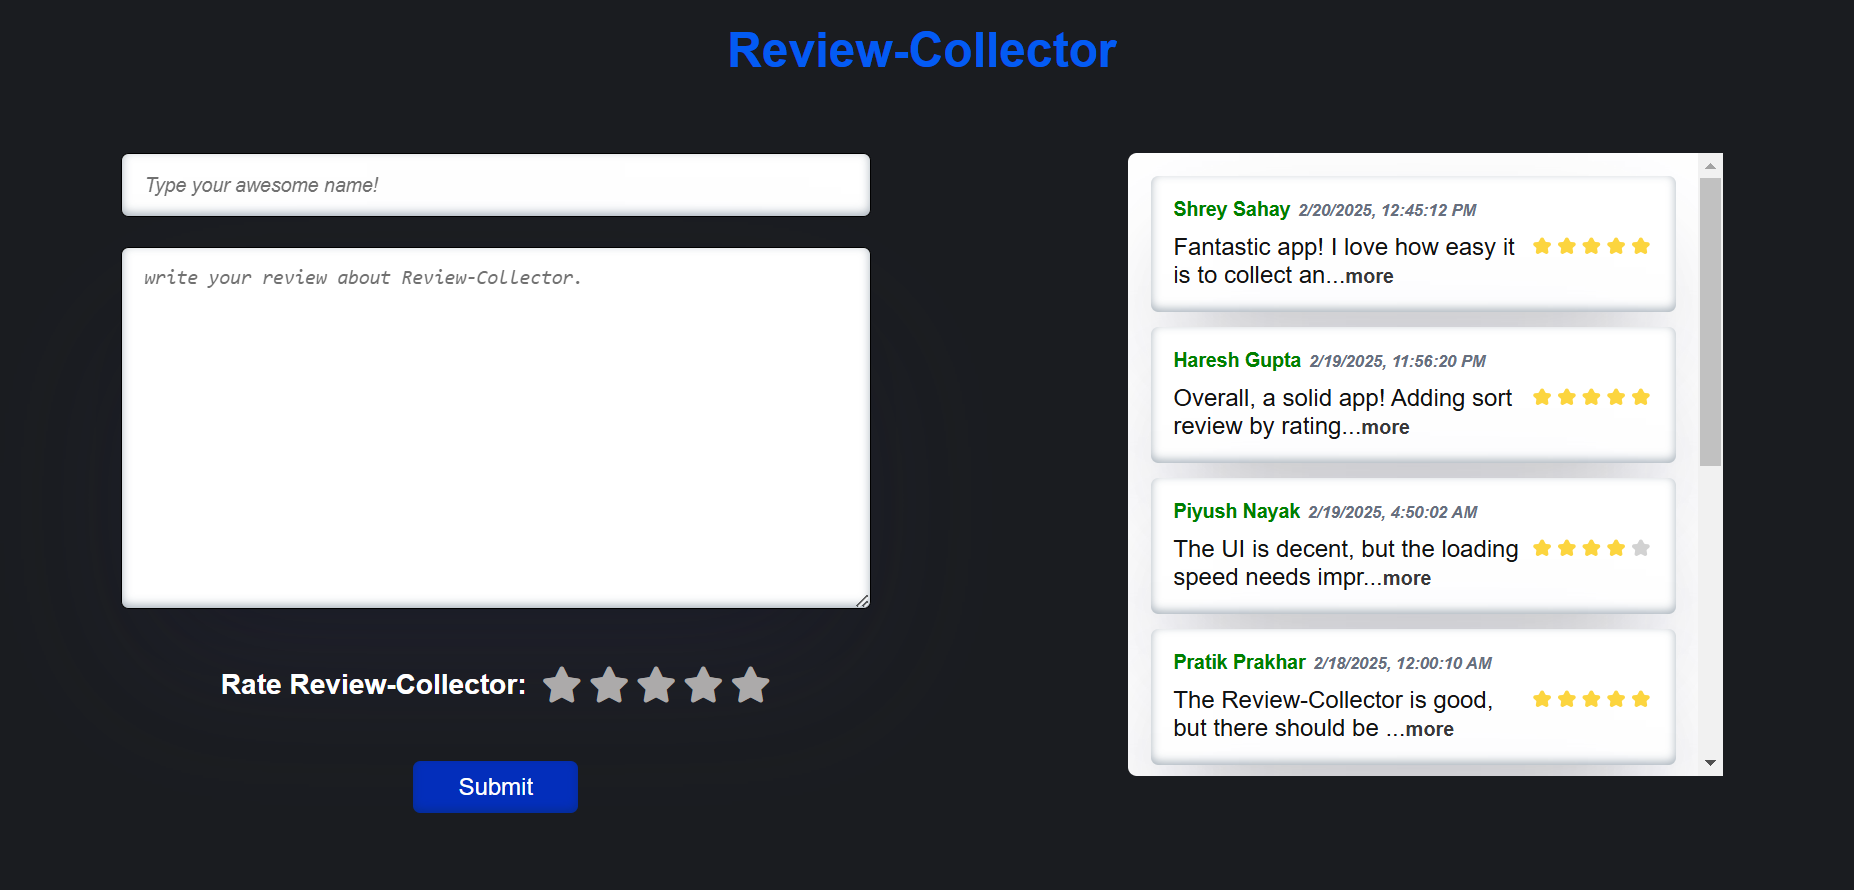
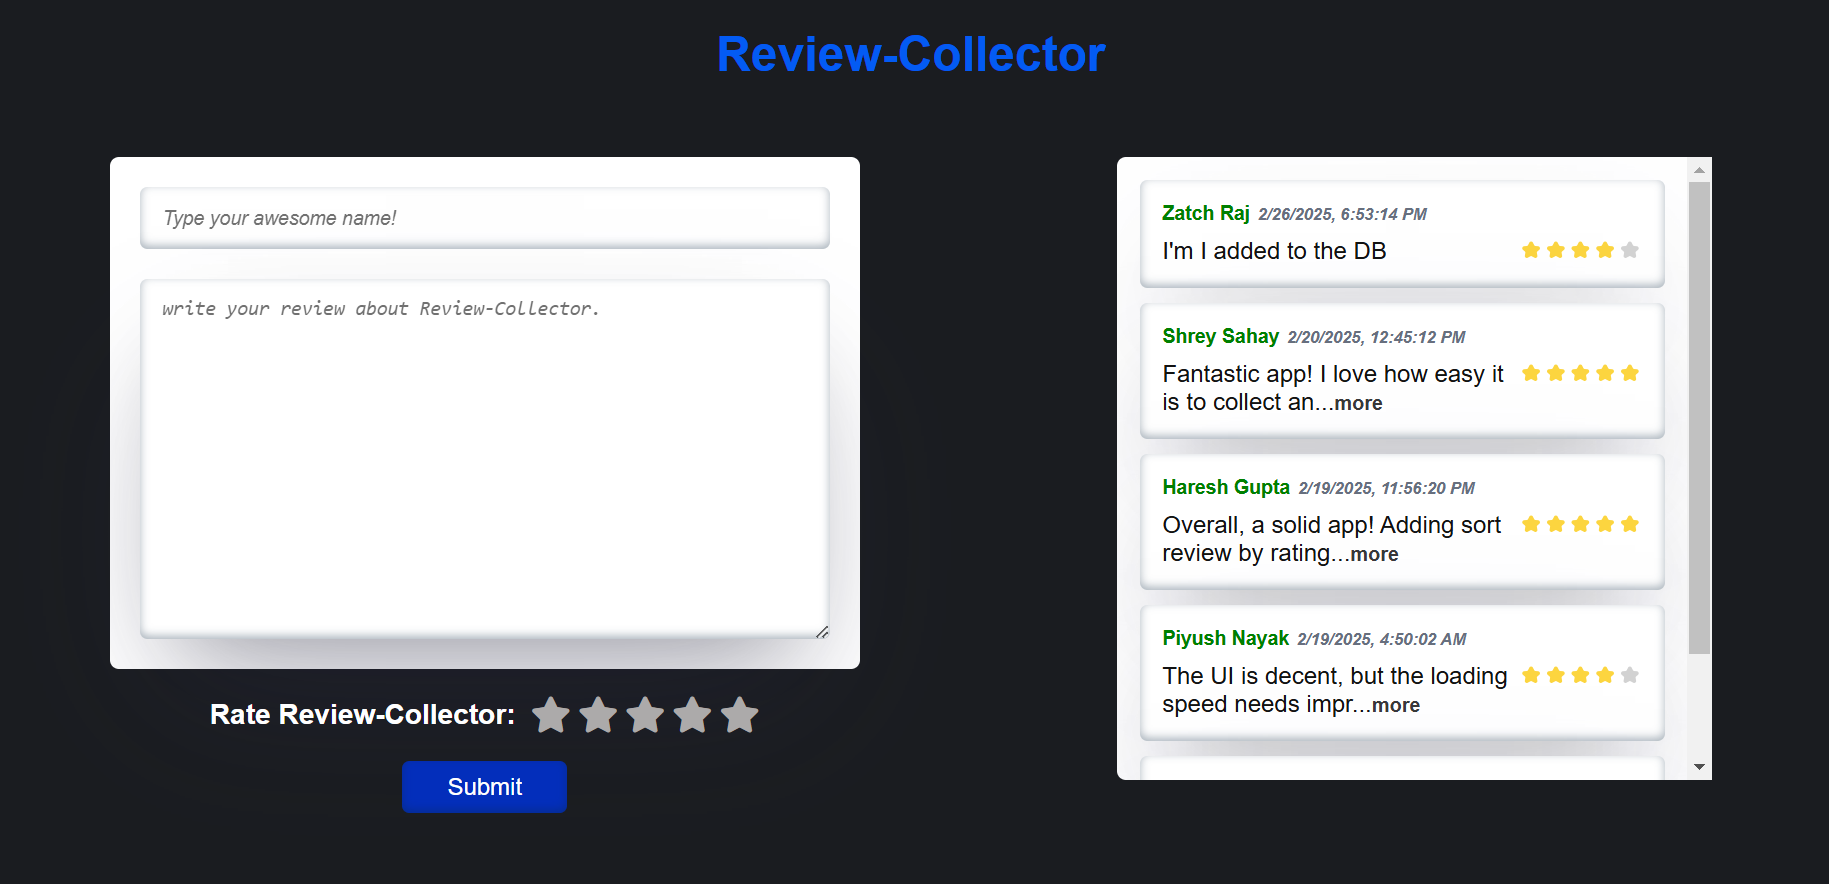
front-back done

diff --git a/frontend/index.js b/frontend/index.js
@@ -7,8 +7,29 @@ const reviewList = document.getElementById("review-lists");
 const starIconList = document.getElementById("rating-icon");
 let ratingNum = 0;
 
+//get review
+const getReviews = async () => {
+    try{
+        const res = await axios.get('/reviews');
+        return res.data;
+    }catch(error){
+        console.log(error);
+        return [];
+    }
+  }
+  
+
+//add review
+const addReview = async(review)=>{
+    const res = await axios.post('/review',review);
+    console.log(res.data);
+}
+const reviewDataDB = await getReviews();
+
+
 //rendering reviews
-reviewData.forEach((data)=>renderReview(data));
+// reviewData.forEach((data)=>renderReview(data));
+reviewDataDB.forEach((data)=>renderReview(data)); //getReviews from database
 
 //submit review
 submitBtn.addEventListener("click",submitReview);
@@ -39,7 +60,8 @@ function submitReview(){
     userReview.value = "";
     ratingNum=0;
     removeStarRating();
-    reviewData.push(user);
+    // reviewData.push(user);
+    addReview(user);
     renderReview(user);
 }
 

diff --git a/frontend/reviewData.js b/frontend/reviewData.js
@@ -23,29 +23,5 @@ const reviewData = [
         rating:5,
         time:"2/20/2025, 12:45:12 PM"
     },
-    {
-        name:"Pratik Prakhar",
-        review:"The Review-Collector is good, but there should be an option to filter spam or fake reviews automatically.",
-        rating:5,
-        time:"2/18/2025, 12:00:10 AM"
-    },
-    {
-        name:"Piyush Nayak",
-        review:"The UI is decent, but the loading speed needs improvement. Sometimes, pages take too long to load.",
-        rating:4,
-        time:"2/19/2025, 4:50:02 AM"
-    },
-    {
-        name:"Haresh Gupta",
-        review:"Overall, a solid app! Adding sort review by rating would make it even better.",
-        rating:5,
-        time:"2/19/2025, 11:56:20 PM"
-    },
-    {
-        name:"Shrey Sahay",
-        review:"Fantastic app! I love how easy it is to collect and manage reviews. The interface is clean and simple!",
-        rating:5,
-        time:"2/20/2025, 12:45:12 PM"
-    },
 ]
 export {reviewData}

diff --git a/frontend/index.html b/frontend/index.html
@@ -7,6 +7,7 @@
     <link rel="stylesheet" href="responsive.css">
     <link rel="icon" type="image/png" href="./image/review-favicon.jpg">
     <link rel="stylesheet" href="https://cdnjs.cloudflare.com/ajax/libs/font-awesome/6.7.2/css/all.min.css" integrity="sha512-Evv84Mr4kqVGRNSgIGL/F/aIDqQb7xQ2vcrdIwxfjThSH8CSR7PBEakCr51Ck+w+/U6swU2Im1vVX0SVk9ABhg==" crossorigin="anonymous" referrerpolicy="no-referrer" />
+    <script src="https://cdn.jsdelivr.net/npm/axios/dist/axios.min.js"></script>
     <title>Review-Collector</title>
 </head>
 <body>
@@ -35,6 +36,6 @@
         </div>
         <div class="review-lists" id="review-lists"></div>
     </div>
-    <script src="index.js" type="module"></script>
+    <script src="./index.js" type="module"></script>
 </body>
 </html>
